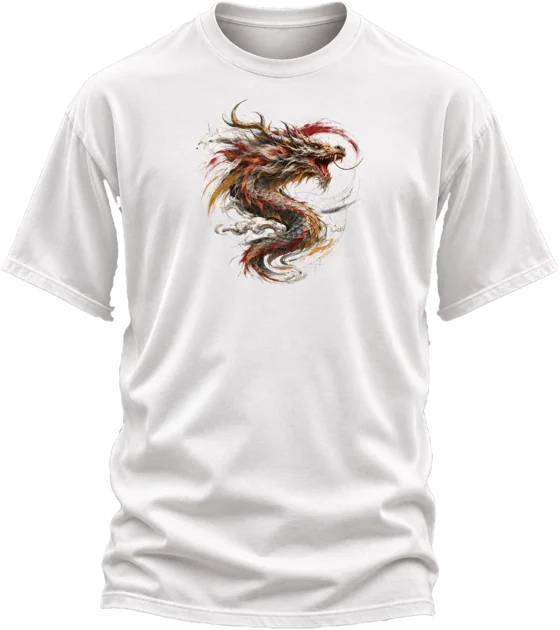
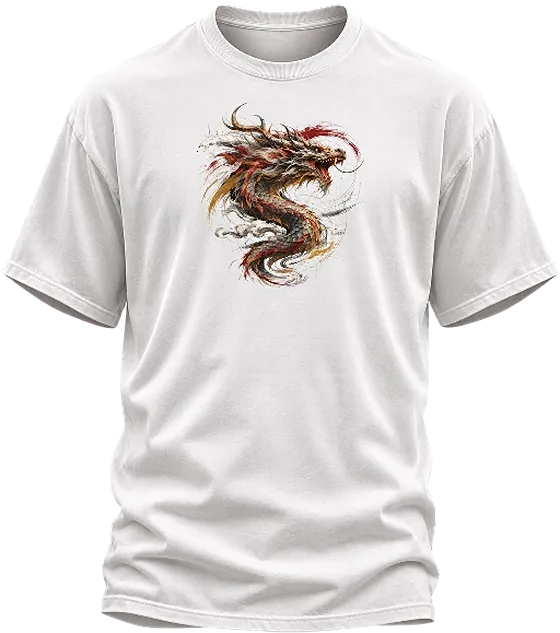
Repaso del frontend: 404 de la marca, luz en el pie, fotos nuevas del dragón y ajustes de accesibilidad (D144)
Claude-Session: https://claude.ai/code/session_01LwMcrhis4Aa9JDZXbr7WdK

diff --git a/public/css/tienda.css b/public/css/tienda.css
@@ -135,7 +135,7 @@ body.menu-abierto { overflow: hidden; }
 .pie .contenedor { padding-top: 64px; padding-bottom: 28px; }
 .pie-rejilla { display: grid; gap: 40px; grid-template-columns: 1fr; }
 
-.pie h3 { font-family: var(--sans); font-size: 12px; font-weight: 500; letter-spacing: .24em; text-transform: uppercase; color: #9C968F; margin-bottom: 16px; }
+.pie h3, .pie .pie-titulo { font-family: var(--sans); font-size: 12px; font-weight: 500; letter-spacing: .24em; text-transform: uppercase; color: #9C968F; margin-bottom: 16px; }
 .pie ul { list-style: none; margin: 0; padding: 0; display: grid; gap: 10px; }
 .pie a { text-decoration: none; color: #E9E4DE; }
 .pie a:hover { color: #fff; }
@@ -732,3 +732,33 @@ h1.estudio-titulo { font-family: var(--display); font-size: 16px; font-weight: 8
 .subir-ia { display: inline-flex; align-items: center; justify-content: center; flex: 1 1 180px; min-height: 46px; cursor: pointer; }
 .aviso-ia { margin: 0; font-size: 12px !important; }
 .boton-ia:focus-visible, .texto-ia:focus-visible, .subir-ia:focus-visible { outline: 2px solid #fff; outline-offset: 2px; }
+
+/* Pie: luz azul que recorre la línea, como el escáner de un juego */
+.pie { position: relative; border-top-color: rgba(142, 160, 255, .14); }
+.pie::before, .pie::after { content: ""; position: absolute; left: 0; right: 0; top: -1px; height: 1px; pointer-events: none; background: linear-gradient(90deg, transparent, rgba(45, 75, 255, .2) 20%, #2D4BFF 45%, #DDE3FF 50%, #2D4BFF 55%, rgba(45, 75, 255, .2) 80%, transparent) no-repeat; background-size: 34% 100%; background-position: -40% 0; animation: barrido-pie 5.5s cubic-bezier(.45, .05, .55, .95) infinite; }
+.pie::after { top: -4px; height: 7px; filter: blur(6px); opacity: .9; }
+@keyframes barrido-pie { 0% { background-position: -40% 0; } 100% { background-position: 140% 0; } }
+@media (prefers-reduced-motion: reduce) {
+    .pie::before, .pie::after { animation: none; background-size: 100% 100%; background-position: 0 0; }
+    .pie::after { opacity: .5; }
+}
+
+/* Página 404 en el estilo de consola */
+.error-404 { min-height: 62vh; display: flex; align-items: center; }
+.error-404 .contenedor { width: 100%; }
+.error-404 .titulo-seccion { max-width: 16ch; margin-left: auto; margin-right: auto; }
+.error-404 .caminos { margin: 36px auto 0; }
+@media (min-width: 768px) { .error-404 .caminos { grid-template-columns: 1fr 1fr; max-width: 760px; } }
+
+/* Zonas táctiles de al menos 44 px (repaso del frontend) */
+.idiomas { gap: 2px; }
+.idiomas a { min-width: 44px; justify-content: center; }
+.ruta a, .estudio-ruta a { display: inline-flex; align-items: center; min-height: 32px; }
+.ruta { padding: 16px 0; align-items: center; }
+
+/* Mayúsculas con tilde (Á, É, Ó…) sin chocar con la línea de arriba (repaso del frontend) */
+.titulo-seccion { line-height: 1.02; }
+.ventajas h3 { line-height: 1.35; }
+/* La espalda, un 2 % más pequeña: al girar no cuenta como un nuevo LCP (la medida de Google se quedaría con ella) */
+.giro .cara.espalda .prenda { transform: scale(.98); }
+.pie .pie-titulo { margin-top: 0; line-height: 1.4; }

diff --git a/resources/views/portada.blade.php b/resources/views/portada.blade.php
@@ -12,6 +12,13 @@
 
 @push('scripts')
     <script>
+        // La espalda no compite con la carga inicial: su brillo se pide al terminar la página.
+        window.addEventListener('load', function () {
+            document.querySelectorAll('[data-mascara]').forEach(function (e) { e.style.setProperty('--mascara', 'url(' + e.dataset.mascara + ')'); });
+            document.querySelectorAll('img[data-src]').forEach(function (i) { i.srcset = i.dataset.srcset; i.src = i.dataset.src; });
+        });
+    </script>
+    <script>
         // Zona de juego: la camiseta gira sola; con el ratón sigue al puntero y en el
         // móvil se gira arrastrando. Al soltarla, vuelve a girar sola. Sin librerías.
         (function () {
@@ -126,13 +133,15 @@
                     <div class="cara frente">
                         <img class="prenda" src="{{ asset('img/portada/camiseta-dragon-900.webp') }}"
                              srcset="{{ asset('img/portada/camiseta-dragon-560.webp') }} 560w, {{ asset('img/portada/camiseta-dragon-900.webp') }} 900w, {{ asset('img/portada/camiseta-dragon-1120.webp') }} 1120w"
-                             sizes="(min-width: 1024px) 40vw, 82vw" width="900" height="1013" alt="{{ __('portada.hud_alt') }}" fetchpriority="high" draggable="false">
+                             sizes="(min-width: 1024px) 40vw, 82vw" width="900" height="1018" alt="{{ __('portada.hud_alt') }}" fetchpriority="high" draggable="false">
                         <span class="brillo" aria-hidden="true" style="--mascara: url('{{ asset('img/portada/camiseta-dragon-560.webp') }}');"></span>
                     </div>
                     @if ($conEspalda)
                         <div class="cara espalda">
-                            <img class="prenda" src="{{ asset('img/portada/camiseta-dragon-espalda-900.webp') }}" width="900" height="1013" alt="" loading="lazy" draggable="false">
-                            <span class="brillo" aria-hidden="true" style="--mascara: url('{{ asset('img/portada/camiseta-dragon-espalda-900.webp') }}');"></span>
+                            <img class="prenda" data-src="{{ asset('img/portada/camiseta-dragon-espalda-900.webp') }}"
+                                 data-srcset="{{ asset('img/portada/camiseta-dragon-espalda-560.webp') }} 560w, {{ asset('img/portada/camiseta-dragon-espalda-900.webp') }} 900w, {{ asset('img/portada/camiseta-dragon-espalda-1120.webp') }} 1120w"
+                                 sizes="(min-width: 1024px) 40vw, 82vw" width="900" height="1018" alt="" loading="lazy" draggable="false">
+                            <span class="brillo" aria-hidden="true" data-mascara="{{ asset('img/portada/camiseta-dragon-espalda-560.webp') }}"></span>
                         </div>
                     @endif
                 </div>
@@ -253,7 +262,7 @@
         <div class="contenedor calidad-rejilla">
             <figure class="lupa-tejido aparece" style="margin: 0;">
                 <img src="{{ asset('img/portada/macro.webp') }}" alt="" width="900" height="900" loading="lazy">
-                <figcaption>Macro · DTI Textil</figcaption>
+                <figcaption>{{ __('portada.macro_pie') }}</figcaption>
             </figure>
             <div>
                 <p class="etiqueta aparece">{{ __('portada.calidad_etiqueta') }}</p>

diff --git a/resources/views/tienda/layout.blade.php b/resources/views/tienda/layout.blade.php
@@ -18,12 +18,15 @@
     <title>{{ $titulo }}</title>
     <meta name="description" content="{{ $descripcionMeta }}">
     {{-- Fuera del índice salvo en producción con el interruptor de Ajustes encendido (D102). --}}
-    <meta name="robots" content="{{ \App\Dominio\Seo\Indexacion::metaRobots() }}">
+    {{-- Las páginas de error nunca se indexan ni declaran URL canónica. --}}
+    <meta name="robots" content="{{ empty($seo['noindex']) ? \App\Dominio\Seo\Indexacion::metaRobots() : 'noindex, nofollow' }}">
+    @empty($seo['noindex'])
     <link rel="canonical" href="{{ $canonical }}">
     @foreach ($alternos as $codigo => $url)
         <link rel="alternate" hreflang="{{ $codigo }}" href="{{ $url }}">
     @endforeach
     <link rel="alternate" hreflang="x-default" href="{{ $alternos[config('idiomas.predeterminado')] }}">
+    @endempty
     <meta property="og:site_name" content="{{ $nombreTienda }}">
     <meta property="og:type" content="{{ $seo['tipo'] ?? 'website' }}">
     <meta property="og:title" content="{{ $titulo }}">
@@ -129,7 +132,7 @@
                     <p style="max-width: 36ch; margin: 22px 0 0; color: #B8B1A9;">{{ __('portada.pie_texto') }}</p>
                 </div>
                 <div>
-                    <h3>{{ __('portada.nav_prendas') }}</h3>
+                    <h2 class="pie-titulo">{{ __('portada.nav_prendas') }}</h2>
                     <ul>
                         @foreach ($familiasMenu as $f)
                             <li><a href="{{ route('tienda.familia', ['familia' => \App\Dominio\Catalogo\Escaparate::slug($f, $idiomaActual)]) }}">{{ $f->nombre }}</a></li>
@@ -137,7 +140,7 @@
                     </ul>
                 </div>
                 <div>
-                    <h3>{{ __('portada.pie_estudio') }}</h3>
+                    <h2 class="pie-titulo">{{ __('portada.pie_estudio') }}</h2>
                     <ul>
                         <li><a href="{{ $portada }}#pasos">{{ __('portada.nav_como') }}</a></li>
                         <li><a href="{{ $portada }}#packs">{{ __('portada.nav_packs') }}</a></li>
@@ -145,7 +148,7 @@
                     </ul>
                 </div>
                 <div>
-                    <h3>{{ __('portada.cambiar_idioma') }}</h3>
+                    <h2 class="pie-titulo">{{ __('portada.cambiar_idioma') }}</h2>
                     <ul>
                         @foreach (config('idiomas.disponibles') as $codigo => $nombre)
                             <li><a href="{{ $alternos[$codigo] }}" hreflang="{{ $codigo }}" lang="{{ $codigo }}">{{ $nombre }}</a></li>

diff --git a/resources/views/errors/404.blade.php b/resources/views/errors/404.blade.php
@@ -1,0 +1,23 @@
+@php
+    // Fuera de las rutas con idioma (o antes de su middleware), el idioma sale del primer tramo de la URL.
+    $idioma = request()->segment(1);
+    $idioma = array_key_exists((string) $idioma, config('idiomas.disponibles')) ? $idioma : config('idiomas.predeterminado');
+    app()->setLocale($idioma);
+    \Illuminate\Support\Facades\URL::defaults(['idioma' => $idioma]);
+    $alternos = collect(config('idiomas.disponibles'))->keys()->mapWithKeys(fn ($i) => [$i => route('portada', ['idioma' => $i])])->all();
+    $flecha = '<svg width="14" height="14" viewBox="0 0 24 24" fill="none" stroke="currentColor" stroke-width="2" aria-hidden="true"><path d="M5 12h14m-6-6 6 6-6 6"/></svg>';
+@endphp
+
+<x-tienda :titulo="__('portada.error_titulo').' · Nextgenapparel'" :descripcion="__('portada.error_texto')" :alternos="$alternos" :seo="['noindex' => true]">
+    <section class="final error-404" aria-labelledby="titulo-error">
+        <div class="contenedor">
+            <p class="etiqueta">404 · {{ __('portada.error_etiqueta') }}</p>
+            <h1 class="titulo-seccion" id="titulo-error">{{ __('portada.error_titulo') }}</h1>
+            <p class="entradilla" style="margin-left: auto; margin-right: auto;">{{ __('portada.error_texto') }}</p>
+            <div class="caminos">
+                <a class="camino principal" href="{{ route('portada') }}"><span><strong>{{ __('portada.error_inicio') }}</strong><small>{{ __('portada.error_inicio_detalle') }}</small></span><span class="flecha">{!! $flecha !!}</span></a>
+                <a class="camino" href="{{ route('portada') }}#prendas"><span><strong>{{ __('portada.error_prendas') }}</strong><small>{{ __('portada.error_prendas_detalle') }}</small></span><span class="flecha">{!! $flecha !!}</span></a>
+            </div>
+        </div>
+    </section>
+</x-tienda>

diff --git a/tests/Feature/Seo/SeoTest.php b/tests/Feature/Seo/SeoTest.php
@@ -101,6 +101,28 @@ class SeoTest extends TestCase
         $this->get('http://127.0.0.1/up')->assertOk(); // comprobación de salud del contenedor web
     }
 
+    /** Fallo encontrado en el repaso del frontend: la 404 salía en blanco, en inglés y sin la marca. */
+    #[DataProvider('paginasQueNoExisten')]
+    public function test_la_404_lleva_la_marca_en_su_idioma_y_nunca_se_indexa(string $url, string $idioma, string $titulo): void
+    {
+        $this->get($url)->assertNotFound()
+            ->assertSee('<html lang="'.$idioma.'">', false)
+            ->assertSee($titulo)
+            ->assertSee('<meta name="robots" content="noindex, nofollow">', false)
+            ->assertDontSee('rel="canonical"', false)
+            ->assertSee('class="pie"', false);
+    }
+
+    public static function paginasQueNoExisten(): array
+    {
+        return [
+            'familia que no existe' => ['/es/no-existe', 'es', 'Game over: esta página no existe'],
+            'prenda que no existe' => ['/es/camisetas/no-existe', 'es', 'Game over: esta página no existe'],
+            'en inglés' => ['/en/nothing-here', 'en', 'Game over: this page does not exist'],
+            'idioma que no existe' => ['/xx/algo', 'es', 'Game over: esta página no existe'],
+        ];
+    }
+
     public function test_el_backend_queda_fuera_de_los_buscadores(): void
     {
         $this->get('/admin/login')->assertOk()->assertHeader('X-Robots-Tag', 'noindex, nofollow');

diff --git a/resources/views/tienda/prenda.blade.php b/resources/views/tienda/prenda.blade.php
@@ -99,7 +99,7 @@
         .zona-guia { position: absolute; border: 1px dashed rgba(22,22,26,.45); border-radius: 2px; opacity: 0; transition: opacity .2s ease; pointer-events: none; z-index: 2; }
         .visor-lienzo.ajustando .zona-guia { opacity: 1; }
         .ajustador { display: flex; flex-direction: column; gap: 14px; padding-top: 4px; border-top: 1px solid rgba(255,255,255,.14); }
-        .ajustador h3 { margin: 12px 0 0; font-size: 15px; font-weight: 500; }
+        .ajustador h3, .ajustador .ajustador-titulo { margin: 12px 0 0; font-size: 15px; font-weight: 500; font-family: var(--sans); text-transform: none; letter-spacing: 0; }
         .fila-tamano { display: flex; align-items: center; gap: 12px; flex-wrap: wrap; }
         .fila-tamano input[type=range] { flex: 1 1 180px; accent-color: #fff; min-height: 32px; }
         .fila-tamano output { font-size: 14px; min-width: 150px; }

diff --git a/lang/es/portada.php b/lang/es/portada.php
@@ -92,4 +92,12 @@ return [
     'nivel' => 'Nivel',
     'seleccionar' => 'Seleccionar',
     'modo' => 'Modo',
+    'macro_pie' => 'Primer plano · DTI Textil',
+    'error_etiqueta' => 'Fuera del mapa',
+    'error_titulo' => 'Game over: esta página no existe',
+    'error_texto' => 'El enlace no lleva a ningún sitio o la prenda ya no está disponible. Elige cómo seguir jugando.',
+    'error_inicio' => 'Volver al inicio',
+    'error_inicio_detalle' => 'Empieza de nuevo desde la portada',
+    'error_prendas' => 'Ver las prendas',
+    'error_prendas_detalle' => 'Camisetas, polos y sudaderas',
 ];

diff --git a/lang/en/portada.php b/lang/en/portada.php
@@ -92,4 +92,12 @@ return [
     'nivel' => 'Level',
     'seleccionar' => 'Select',
     'modo' => 'Mode',
+    'macro_pie' => 'Close-up · DTI Textile',
+    'error_etiqueta' => 'Off the map',
+    'error_titulo' => 'Game over: this page does not exist',
+    'error_texto' => 'The link leads nowhere or the garment is no longer available. Choose how to keep playing.',
+    'error_inicio' => 'Back to home',
+    'error_inicio_detalle' => 'Start again from the home page',
+    'error_prendas' => 'See the garments',
+    'error_prendas_detalle' => 'T-shirts, polo shirts and sweatshirts',
 ];

diff --git a/resources/views/tienda/_tu-marca.blade.php b/resources/views/tienda/_tu-marca.blade.php
@@ -115,7 +115,7 @@
     <div id="hp-ajustar" role="tabpanel" aria-labelledby="h-ajustar" class="herramienta-panel" hidden>
     <p class="claro" id="ajustador-vacio">{{ __('tienda.ajustar_vacio') }}</p>
     <div class="ajustador" id="ajustador" hidden>
-        <h3>{{ __('tienda.ajusta') }}</h3>
+        <h2 class="ajustador-titulo">{{ __('tienda.ajusta') }}</h2>
         <div class="fila-tamano">
             <label for="tamano-diseno" class="oculto">{{ __('tienda.tamano') }}</label>
             <input type="range" id="tamano-diseno" min="20" max="100" step="1" value="100">

diff --git a/docs/DECISIONES.md b/docs/DECISIONES.md
@@ -214,3 +214,4 @@ Formato: decisión — motivo. Las decisiones nuevas se añaden al final con su 
 | D141 | **El configurador es la página de producto.** Al abrir una prenda con maquetas y zonas se entra directamente en el Estudio a pantalla completa: barra con el monograma, la ruta, el nombre, los atajos y el precio «Desde»; la X (o el monograma) vuelve al listado de la familia y Esc no saca de la página. La información de la prenda (descripción, tallas, guía de tallas, detalles, plazos, garantía y pago seguro) pasa a la pestaña **«Prenda»** del Estudio. La ficha clásica solo se muestra si la prenda aún no tiene maquetas con zonas | Decisión del cliente: «solo utilizamos nuestro configurador»; una sola pantalla, sin perder de vista la prenda |
 | D142 | **Configurador en 3 niveles** (adelanto de la fase 5): **1 Diseño · 2 Tallas y colores · 3 Resumen**. Al colocar un diseño aparece una **tarjeta de decisión** con cada diseño y lo que suma por prenda, «+ Añadir otro diseño» y «Siguiente: tallas y colores» (sin ventanas emergentes). El **precio de arriba cambia según lo configurado**: «Desde» sin diseño, «Tu prenda X €/ud. · N diseños» con diseños, y el **total con IVA** al elegir cantidades; en el móvil, el mismo precio y el siguiente paso en una barra fija abajo. En el nivel 2, una línea por color (todas con los mismos diseños) con las tallas a la venta y + / −; el motor de precios calcula el total, las ofertas y los mínimos en el servidor (`App\Dominio\Precios\Configurador`, ruta `tienda.precio`); el navegador solo lo muestra. El resumen solo se abre si el pedido es confirmable. El envío se calcula al cerrar el pedido. «Añadir a mi pedido» queda visible pero inactivo hasta que lleguen la subida real del PNG (fase 4) y el carrito (fase 5) | Petición del cliente: que nunca se líe con «¿añado otro diseño?», ver siempre el precio según lo aplicado y terminar el pedido eligiendo cantidades, tallas y colores |
 | D143 | **Mejorar el diseño con IA (del cliente).** Si la calidad al tamaño de impresión es justa o baja, bajo la barra de calidad aparece «Mejorar mi diseño con IA»: tres pasos, las instrucciones listas para copiar **con su tamaño de impresión ya puesto** (`:medida`, p. ej. «9 × 9 cm») y «Subir el diseño mejorado», que vuelve a medir la calidad. La tienda **no envía nada a ninguna IA**: el cliente usa su propia herramienta (su diseño sigue sin salir del dispositivo). En Ajustes → General se enciende o apaga, se elige desde qué nivel se ofrece (buena, justa o baja) y se editan las instrucciones en es/en; solo se guarda el texto que difiere del de por defecto (`lang/*/disenos.php`, `App\Dominio\Disenos\MejoraIa`). Aviso al cliente: la IA puede cambiar detalles y solo se imprimen diseños con derechos | Propuesta del cliente: que el cliente no se quede bloqueado con una imagen mala y vuelva con el diseño mejorado |
+| D144 | **Repaso del frontend** antes de seguir. Cambios: la **404** pasa a ser una página de la marca («Game over: esta página no existe») en el idioma de la URL, con dos salidas y siempre `noindex`, sin canónica (antes salía la página blanca de Laravel y en inglés); el **pie** lleva una luz azul que recorre su línea como el escáner de un juego (quieta con «reducir movimiento»); la portada usa las **fotos nuevas del dragón** (frontal y espalda, ya recortadas por el cliente; giro de 360°) y el primer plano del dragón sustituye a la calavera en «Calidad»; la espalda y su brillo se cargan al terminar la página y se dibujan un 2 % más pequeños para no contar como nuevo LCP; zonas táctiles de 44 px en ES/EN y en la ruta; titulares con altura de línea 1,02 para que las mayúsculas con tilde no choquen; títulos del pie como `h2` (orden de encabezados) | Petición del cliente. Lighthouse móvil en local (sin gzip, que sí aplica Caddy en producción): portada 94 / accesibilidad 100, ficha 94 / 100; LCP 3,0–3,1 s en local |
